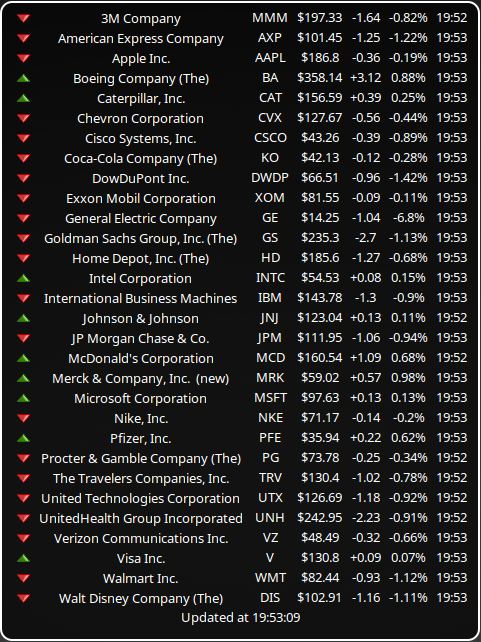
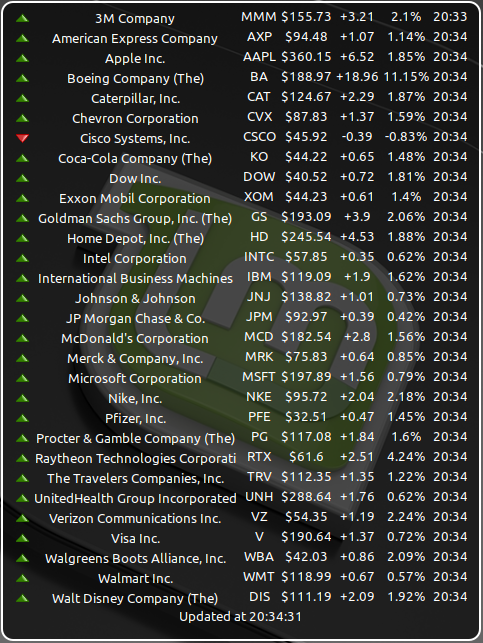
add sort option, improved connectivity

diff --git a/yfquotes@thegli/files/yfquotes@thegli/desklet.js b/yfquotes@thegli/files/yfquotes@thegli/desklet.js
@@ -1,5 +1,5 @@
 /*
- * Yahoo Finance Quotes - 0.2.0
+ * Yahoo Finance Quotes - 0.3.0
  *
  * Shows financial market information provided by Yahoo Finance.
  * This desklet is based on the work of fthuin's stocks desklet.
@@ -53,16 +53,23 @@ YahooFinanceQuoteReader.prototype = {
         const urlcatch = Gio.file_new_for_uri(requestUrl);
         let response;
         
-        try {
-            let [successful, contents, etag_out] = urlcatch.load_contents(null);
-            if (successful) {
-                response = contents.toString();
-            } else {
-                response = errorBegin + "Yahoo Finance service not available!" + errorEnd;
+        const maxRetries = 5;
+        let retries = 0;
+        do {
+            try {
+                let [successful, contents, etag_out] = urlcatch.load_contents(null);
+                if (successful) {
+                    response = contents.toString();
+                    retries = maxRetries;
+                } else {
+                    response = errorBegin + "Yahoo Finance service not available!" + errorEnd;
+                }
+            } catch (err) {
+                response = errorBegin + err + errorEnd;
             }
-        } catch (err) {
-            response = errorBegin + err + errorEnd;
-        }
+            
+            retries++;
+        } while (retries < maxRetries); 
 
         return JSON.parse(response);
     },
@@ -272,6 +279,10 @@ StockQuoteDesklet.prototype = {
                 this.onSettingsChanged, null);  
         this.settings.bindProperty(Settings.BindingDirection.IN, "quoteSymbols", "quoteSymbolsText",
                 this.onSettingsChanged, null);
+        this.settings.bindProperty(Settings.BindingDirection.IN, "sortCriteria", "sortCriteria",
+                this.onSettingsChanged, null);
+        this.settings.bindProperty(Settings.BindingDirection.IN, "sortDirection", "sortDirection",
+                this.onSettingsChanged, null);
         this.settings.bindProperty(Settings.BindingDirection.IN, "showChangeIcon", "showChangeIcon", this.onSettingsChanged, null);
         this.settings.bindProperty(Settings.BindingDirection.IN, "showQuoteName", "showQuoteName",
                 this.onSettingsChanged, null);
@@ -355,11 +366,37 @@ StockQuoteDesklet.prototype = {
       global.logError("Cannot display quotes information for symbols: " + quoteSymbols.join(","));
       global.logError("The following error occurred: " + err);
     },
+    sortByProperty: function (quotes, prop, direction) {        
+        if (quotes.length < 2) {
+            return quotes;
+        }
+        
+        const clone = quotes.slice(0);
+        clone.sort(function(q1, q2) {
+            let p1 = "";
+            if (q1.hasOwnProperty(prop) && q1[prop] !== undefined && q1[prop] !== null) {
+                p1 = q1[prop].toString().match(/^\d+$/) ? + q1[prop] : q1[prop];
+            }
+            let p2 = "";
+            if (q2.hasOwnProperty(prop) && q2[prop] !== undefined && q2[prop] !== null) {
+                p2 = q2[prop].toString().match(/^\d+$/) ? + q2[prop] : q2[prop];
+            }
+            
+            return ((p1 < p2) ? -1 : ((p1 > p2) ? 1 : 0)) * direction;
+        });
+        return clone;
+    },
     render : function (quotes) {
         const tableContainer = new St.BoxLayout({
             vertical : true
         });
         
+        // optional sort
+        if (this.sortCriteria && this.sortCriteria !== "none") {
+            quotes[0] = this.sortByProperty(quotes[0], this.sortCriteria, this.sortDirection ? 1 : -1);
+        }
+        
+        // in case of errors, show details
         if (quotes[1] !== null) {
             tableContainer.add_actor(this.createErrorLabel(quotes[1]));
         }

diff --git a/yfquotes@thegli/README.md b/yfquotes@thegli/README.md
@@ -7,7 +7,12 @@ This repository contains a [desklet for the Cinnamon desktop environment](https:
 
 This desklet is based on the [desklet from fthuin](https://github.com/fthuin/yahoofinance-cinnamon-desklet). The data retrieval part is adopted to an alternative service url, after the Yahoo Finance community table got retired in May 2017.
 
-Tested with Linux Mint 17.0 (Cinnamon 2.2), Debian 9 (Cinnamon 3.2), Linux Mint 18.2 (Cinnamon 3.4), Linux Mint 18.3 (Cinnamon 3.6), and Manjaro (Cinnamon 3.8).
+Tested with
+
+- Linux Mint Cinnamon 17 up to 20
+- Debian 9 with Cinnamon 3.2
+- Manjaro with Cinnamon 3.8
+
 
 ## Installation
 Either follow the installation instructions on [Cinnamon spices](https://cinnamon-spices.linuxmint.com/desklets), or manually download the folder **yfquotes@thegli** (below "files") and copy the folder and its content to *~/.local/share/cinnamon/desklets/*.
@@ -16,6 +21,14 @@ Either follow the installation instructions on [Cinnamon spices](https://cinnamo
 Check out the desklet configuration settings, and choose the data refresh period, the list of quotes to show (see also [Known Limitations](#known-limitations)), and quote details to display. The default list contains the Dow 30 companies.
 
 ## Release Notes
+
+### 0.3.0 - June 29, 2020
+Features:
+* add setting to sort quotes list
+* update DOW 30 component symbols
+
+Bugfixes:
+* auto-retry in case of connection problem (e.g. TLS handshake)
 
 ### 0.2.0 - May 23, 2018
 Features:
@@ -45,9 +58,10 @@ Features:
 Bugfixes:
 * change data retrieval to alternative url from Yahoo Finance
 
-##Known Limitations
+## Known Limitations
+
 * The quotes list might not be editable using the desklet's configuration dialog (encountered in Cinnamon 3.6 and earlier 3.x versions). As a workaround, export the configuration using the standard desklet settings menu to a (json) file, then edit the file with your favorite text editor, and finally import the configuration file again.
- 
+
 ## Credits
 Based on the desklet source code from [fthuin](https://github.com/fthuin/yahoofinance-cinnamon-desklet).
 
